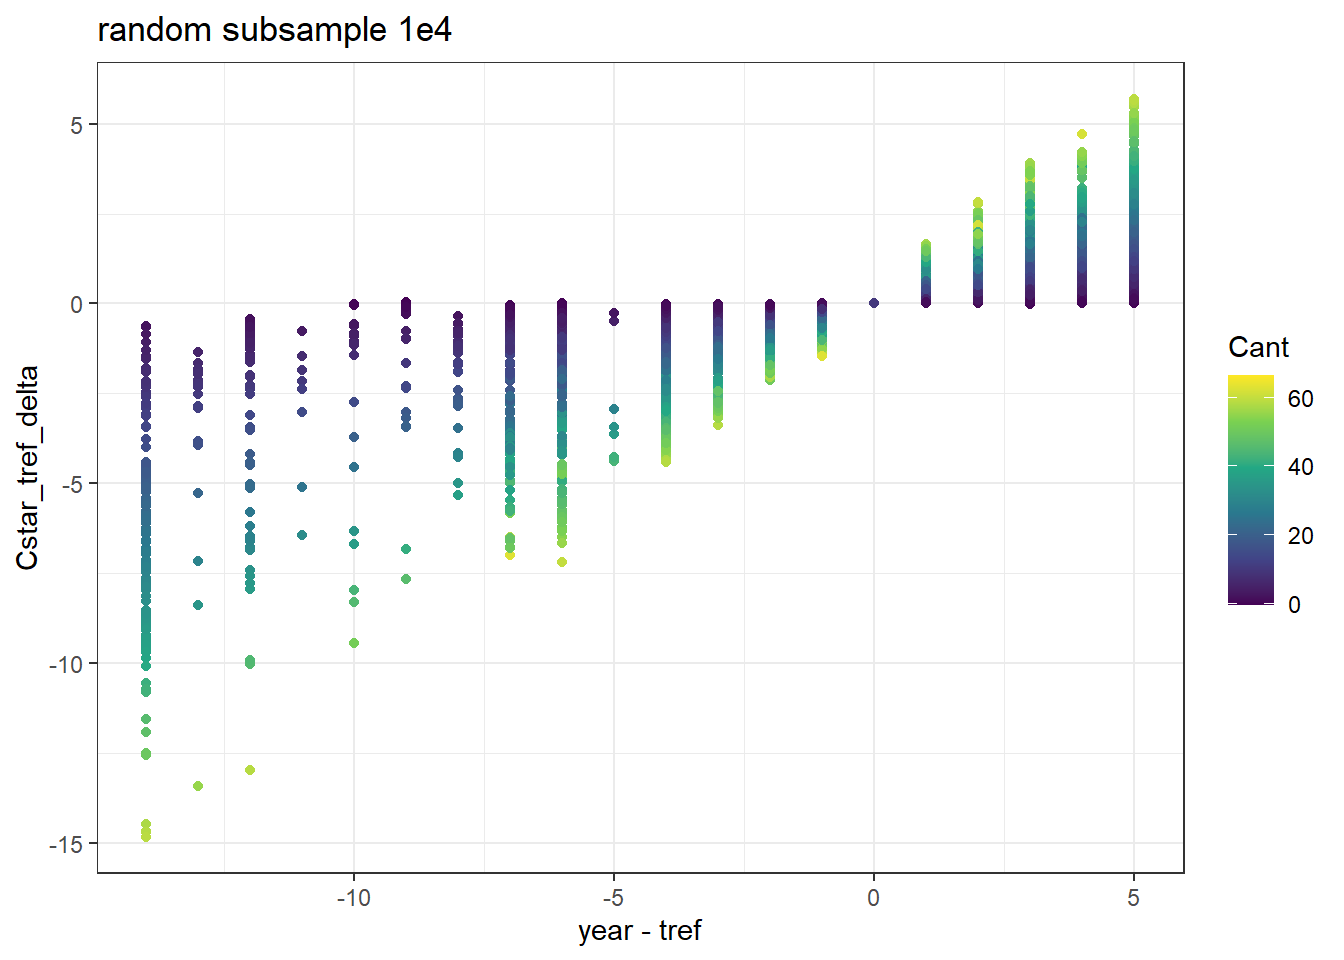
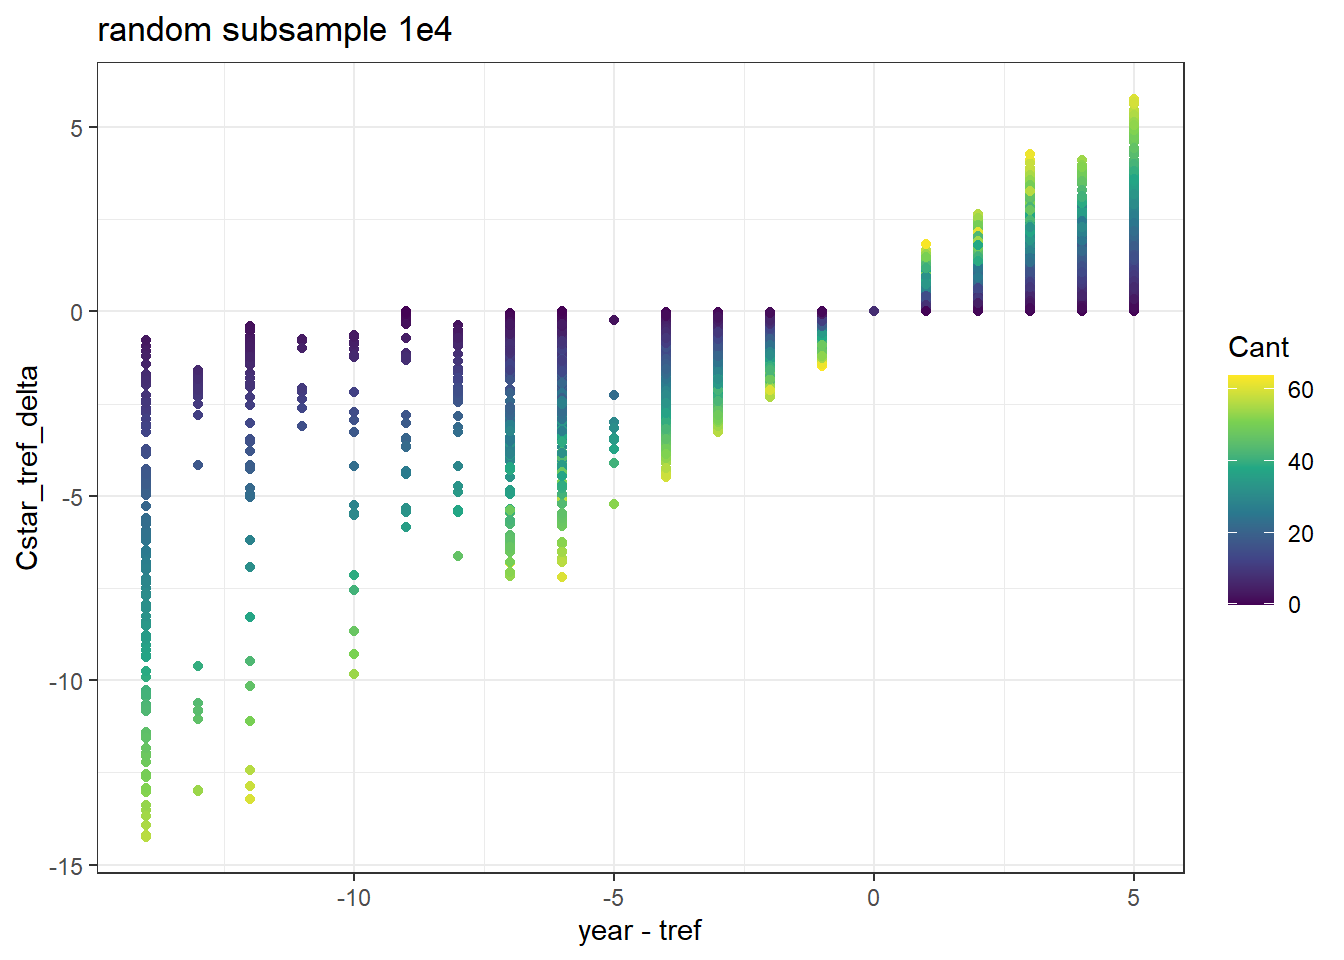
Build site.

diff --git a/docs/eMLR.html b/docs/eMLR.html
@@ -546,16 +546,16 @@ This reproducible <a href="http://rmarkdown.rstudio.com">R Markdown</a> analysis
 <div class="panel panel-default">
 <div class="panel-heading">
 <p class="panel-title">
-<a data-toggle="collapse" data-parent="#workflowr-checks" href="#strongRepositoryversionstrongahrefhttpsgithubcomjensdanielmuellerCanteMLRtree09b3ca8f5e31d034094f2310cc2794f5b51bca74targetblank09b3ca8a"> <span class="glyphicon glyphicon-ok text-success" aria-hidden="true"></span> <strong>Repository version:</strong> <a href="https://github.com/jens-daniel-mueller/Cant_eMLR/tree/09b3ca8f5e31d034094f2310cc2794f5b51bca74" target="_blank">09b3ca8</a> </a>
+<a data-toggle="collapse" data-parent="#workflowr-checks" href="#strongRepositoryversionstrongahrefhttpsgithubcomjensdanielmuellerCanteMLRtree4b81f1644fd148d9be76e26e61d1d9c2182f7126targetblank4b81f16a"> <span class="glyphicon glyphicon-ok text-success" aria-hidden="true"></span> <strong>Repository version:</strong> <a href="https://github.com/jens-daniel-mueller/Cant_eMLR/tree/4b81f1644fd148d9be76e26e61d1d9c2182f7126" target="_blank">4b81f16</a> </a>
 </p>
 </div>
[2 lines of base64/hex data omitted]
 <div class="panel-body">
 <p>
 Great! You are using Git for version control. Tracking code development and connecting the code version to the results is critical for reproducibility.
 </p>
 <p>
-The results in this page were generated with repository version <a href="https://github.com/jens-daniel-mueller/Cant_eMLR/tree/09b3ca8f5e31d034094f2310cc2794f5b51bca74" target="_blank">09b3ca8</a>. See the <em>Past versions</em> tab to see a history of the changes made to the R Markdown and HTML files.
+The results in this page were generated with repository version <a href="https://github.com/jens-daniel-mueller/Cant_eMLR/tree/4b81f1644fd148d9be76e26e61d1d9c2182f7126" target="_blank">4b81f16</a>. See the <em>Past versions</em> tab to see a history of the changes made to the R Markdown and HTML files.
 </p>
 <p>
 Note that you need to be careful to ensure that all relevant files for the analysis have been committed to Git prior to generating the results (you can use <code>wflow_publish</code> or <code>wflow_git_commit</code>). workflowr only checks the R Markdown file, but you know if there are other scripts or data files that it depends on. Below is the status of the Git repository when the results were generated:
@@ -607,6 +607,40 @@ Message
 </tr>
 </thead>
 <tbody>
+<tr>
+<td>
+Rmd
+</td>
+<td>
+<a href="https://github.com/jens-daniel-mueller/Cant_eMLR/blob/4b81f1644fd148d9be76e26e61d1d9c2182f7126/analysis/eMLR.Rmd" target="_blank">4b81f16</a>
+</td>
+<td>
+jens-daniel-mueller
+</td>
+<td>
+2020-07-22
+</td>
+<td>
+plot update
+</td>
+</tr>
+<tr>
+<td>
+html
+</td>
+<td>
+<a href="https://rawcdn.githack.com/jens-daniel-mueller/Cant_eMLR/23038c8afa47ee1712a5d10810c96328c732f60b/docs/eMLR.html" target="_blank">23038c8</a>
+</td>
+<td>
+jens-daniel-mueller
+</td>
+<td>
+2020-07-22
+</td>
+<td>
+Build site.
+</td>
+</tr>
 <tr>
 <td>
 Rmd
@@ -1202,10 +1236,8 @@ GLODAP &lt;- GLODAP %&gt;%
 <div id="control-plots" class="section level2">
 <h2><span class="header-section-number">3.3</span> Control plots</h2>
 <pre class="r"><code>GLODAP %&gt;% 
-  sample_n(10000) %&gt;% 
-  ggplot(aes(year - tref, Cstar_tref_delta, col=Cant))+
-  geom_point()+
-  scale_color_viridis_c()</code></pre>
+  ggplot(aes(Cstar_tref_delta))+
+  geom_histogram()</code></pre>
 <p><img src="figure/eMLR.Rmd/Cstar_reference_year_adjustment_histogram-1.png" width="672" style="display: block; margin: auto;" /></p>
 <pre class="r"><code>GLODAP %&gt;% 
   sample_n(10000) %&gt;% 
@@ -1215,9 +1247,8 @@ GLODAP &lt;- GLODAP %&gt;%
   labs(title = &quot;random subsample 1e4&quot;)</code></pre>
 <p><img src="figure/eMLR.Rmd/Cstar_reference_year_adjustment_vs_time_difference_Cant-1.png" width="672" style="display: block; margin: auto;" /></p>
 </div>
-</div>
-<div id="selected-section-plots" class="section level1">
-<h1><span class="header-section-number">4</span> Selected section plots</h1>
+<div id="selected-section-plots" class="section level2">
+<h2><span class="header-section-number">3.4</span> Selected section plots</h2>
 <p>Selected sections are plotted to demonstrate the magnitude of various parameters and corrections relevant to C*.</p>
 <pre class="r"><code>cruises_meridional &lt;- c(&quot;1041&quot;)
 
@@ -1233,12 +1264,14 @@ GLODAP_cruise &lt;- GLODAP %&gt;%
 
 #map &lt;- 
 GLODAP_cruise %&gt;%
+  arrange(date) %&gt;% 
   ggplot(aes(lon, lat))+
   mapWorld+
-  geom_point(aes(col=date))+
   geom_path()+
+  geom_point(aes(col=date))+
   coord_quickmap(expand = FALSE)+
-  scale_color_viridis_c(trans = &quot;date&quot;)</code></pre>
+  scale_color_viridis_c(trans = &quot;date&quot;)+
+  labs(title = mean(date))</code></pre>
 <p><img src="figure/eMLR.Rmd/meridional_sections-1.png" width="672" style="display: block; margin: auto;" /></p>
 <pre class="r"><code>lat_section &lt;- 
 GLODAP_cruise %&gt;%
@@ -1285,8 +1318,9 @@ lat_section+
 # 
 # rm(map, lat_tco2, lat_talk, lat_phosphate, lat_Cstar, lat_Cstar_tref)</code></pre>
 </div>
+</div>
 <div id="mlr-fitting" class="section level1">
-<h1><span class="header-section-number">5</span> MLR fitting</h1>
+<h1><span class="header-section-number">4</span> MLR fitting</h1>
 <pre class="r"><code>temperature
 salinity
 phosphate
